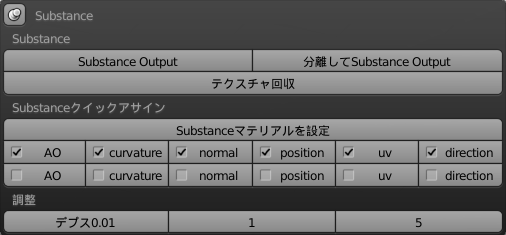
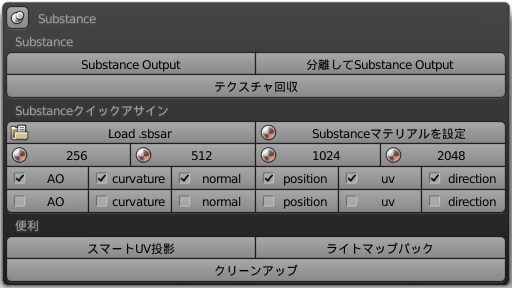
ドキュメント更新、アイコン追加

diff --git a/modules/main/fjw_maintools.py b/modules/main/fjw_maintools.py
@@ -17606,7 +17606,7 @@ class FUJIWARATOOLBOX_LOAD_SBSAR(bpy.types.Operator):
     bl_options = {'REGISTER', 'UNDO'}
 
     uiitem = uiitem()
-    uiitem.button(bl_idname,bl_label,icon="",mode="")
+    uiitem.button(bl_idname,bl_label,icon="FILESEL",mode="")
 
     filter_glob = StringProperty(default="*.sbsar", options={"HIDDEN"})
 
@@ -17642,7 +17642,7 @@ class FUJIWARATOOLBOX_SET_SBSAR_TO_ACTIVE(bpy.types.Operator):
     bl_options = {'REGISTER', 'UNDO'}
 
     uiitem = uiitem()
-    uiitem.button(bl_idname,bl_label,icon="",mode="")
+    uiitem.button(bl_idname,bl_label,icon="MATERIAL_DATA",mode="")
 
     def get_graph_list_callback(scene, context):
         items = []
@@ -17778,7 +17778,7 @@ class FUJIWARATOOLBOX_SET_SBSAR_256(bpy.types.Operator):
     bl_options = {'REGISTER', 'UNDO'}
 
     uiitem = uiitem()
-    uiitem.button(bl_idname,bl_label,icon="",mode="")
+    uiitem.button(bl_idname,bl_label,icon="MATERIAL_DATA",mode="")
 
     def execute(self, context):
         SubstanceTools.tex_size = "8"
@@ -17797,7 +17797,7 @@ class FUJIWARATOOLBOX_SET_SBSAR_512(bpy.types.Operator):
     bl_options = {'REGISTER', 'UNDO'}
 
     uiitem = uiitem()
-    uiitem.button(bl_idname,bl_label,icon="",mode="")
+    uiitem.button(bl_idname,bl_label,icon="MATERIAL_DATA",mode="")
 
     def execute(self, context):
         SubstanceTools.tex_size = "9"
@@ -17816,7 +17816,7 @@ class FUJIWARATOOLBOX_SET_SBSAR_1024(bpy.types.Operator):
     bl_options = {'REGISTER', 'UNDO'}
 
     uiitem = uiitem()
-    uiitem.button(bl_idname,bl_label,icon="",mode="")
+    uiitem.button(bl_idname,bl_label,icon="MATERIAL_DATA",mode="")
 
     def execute(self, context):
         SubstanceTools.tex_size = "10"
@@ -17835,7 +17835,7 @@ class FUJIWARATOOLBOX_SET_SBSAR_2048(bpy.types.Operator):
     bl_options = {'REGISTER', 'UNDO'}
 
     uiitem = uiitem()
-    uiitem.button(bl_idname,bl_label,icon="",mode="")
+    uiitem.button(bl_idname,bl_label,icon="MATERIAL_DATA",mode="")
 
     def execute(self, context):
         SubstanceTools.tex_size = "11"
